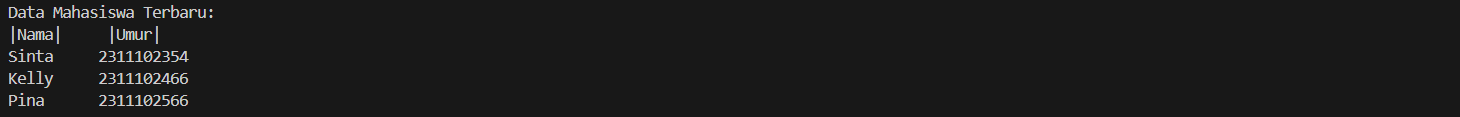
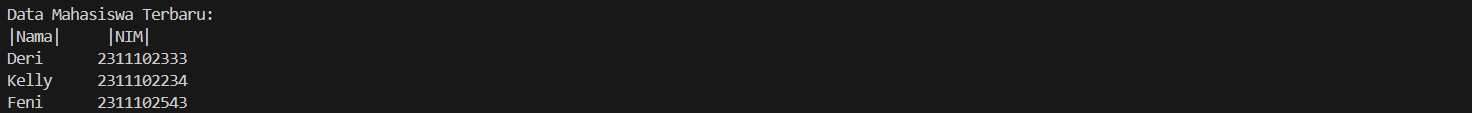
Modul4

diff --git a/Pertemuan04/unguided01.cpp b/Pertemuan04/unguided01.cpp
@@ -186,7 +186,7 @@ void display() { // Menampilkan data mahasiswa yang ada di linked list
     }
 
     Node* current = head;
-    cout << left << setw(10) << "|Nama|" << right << setw(5) << " |Umur|" << endl; // Menampilkan header tabel data mahasiswa 
+    cout << left << setw(10) << "|Nama|" << right << setw(5) << " |NIM|" << endl; // Menampilkan header tabel data mahasiswa 
     while (current != nullptr) {
         cout << left << setw(10) << current->Nama_2123 << right << setw(5) << current->NIM_2123 << endl; // Menampilkan data mahasiswa dan merapikan tampilan data mahasiswa
         current = current->next;

diff --git a/Pertemuan04/Laprak_Modul4.md b/Pertemuan04/Laprak_Modul4.md
@@ -713,7 +713,7 @@ void display() { // Menampilkan data mahasiswa yang ada di linked list
     }
 
     Node* current = head;
-    cout << left << setw(10) << "|Nama|" << right << setw(5) << " |Umur|" << endl; // Menampilkan header tabel data mahasiswa 
+    cout << left << setw(10) << "|Nama|" << right << setw(5) << " |NIM|" << endl; // Menampilkan header tabel data mahasiswa 
     while (current != nullptr) {
         cout << left << setw(10) << current->Nama_2123 << right << setw(5) << current->NIM_2123 << endl; // Menampilkan data mahasiswa dan merapikan tampilan data mahasiswa
         current = current->next;
